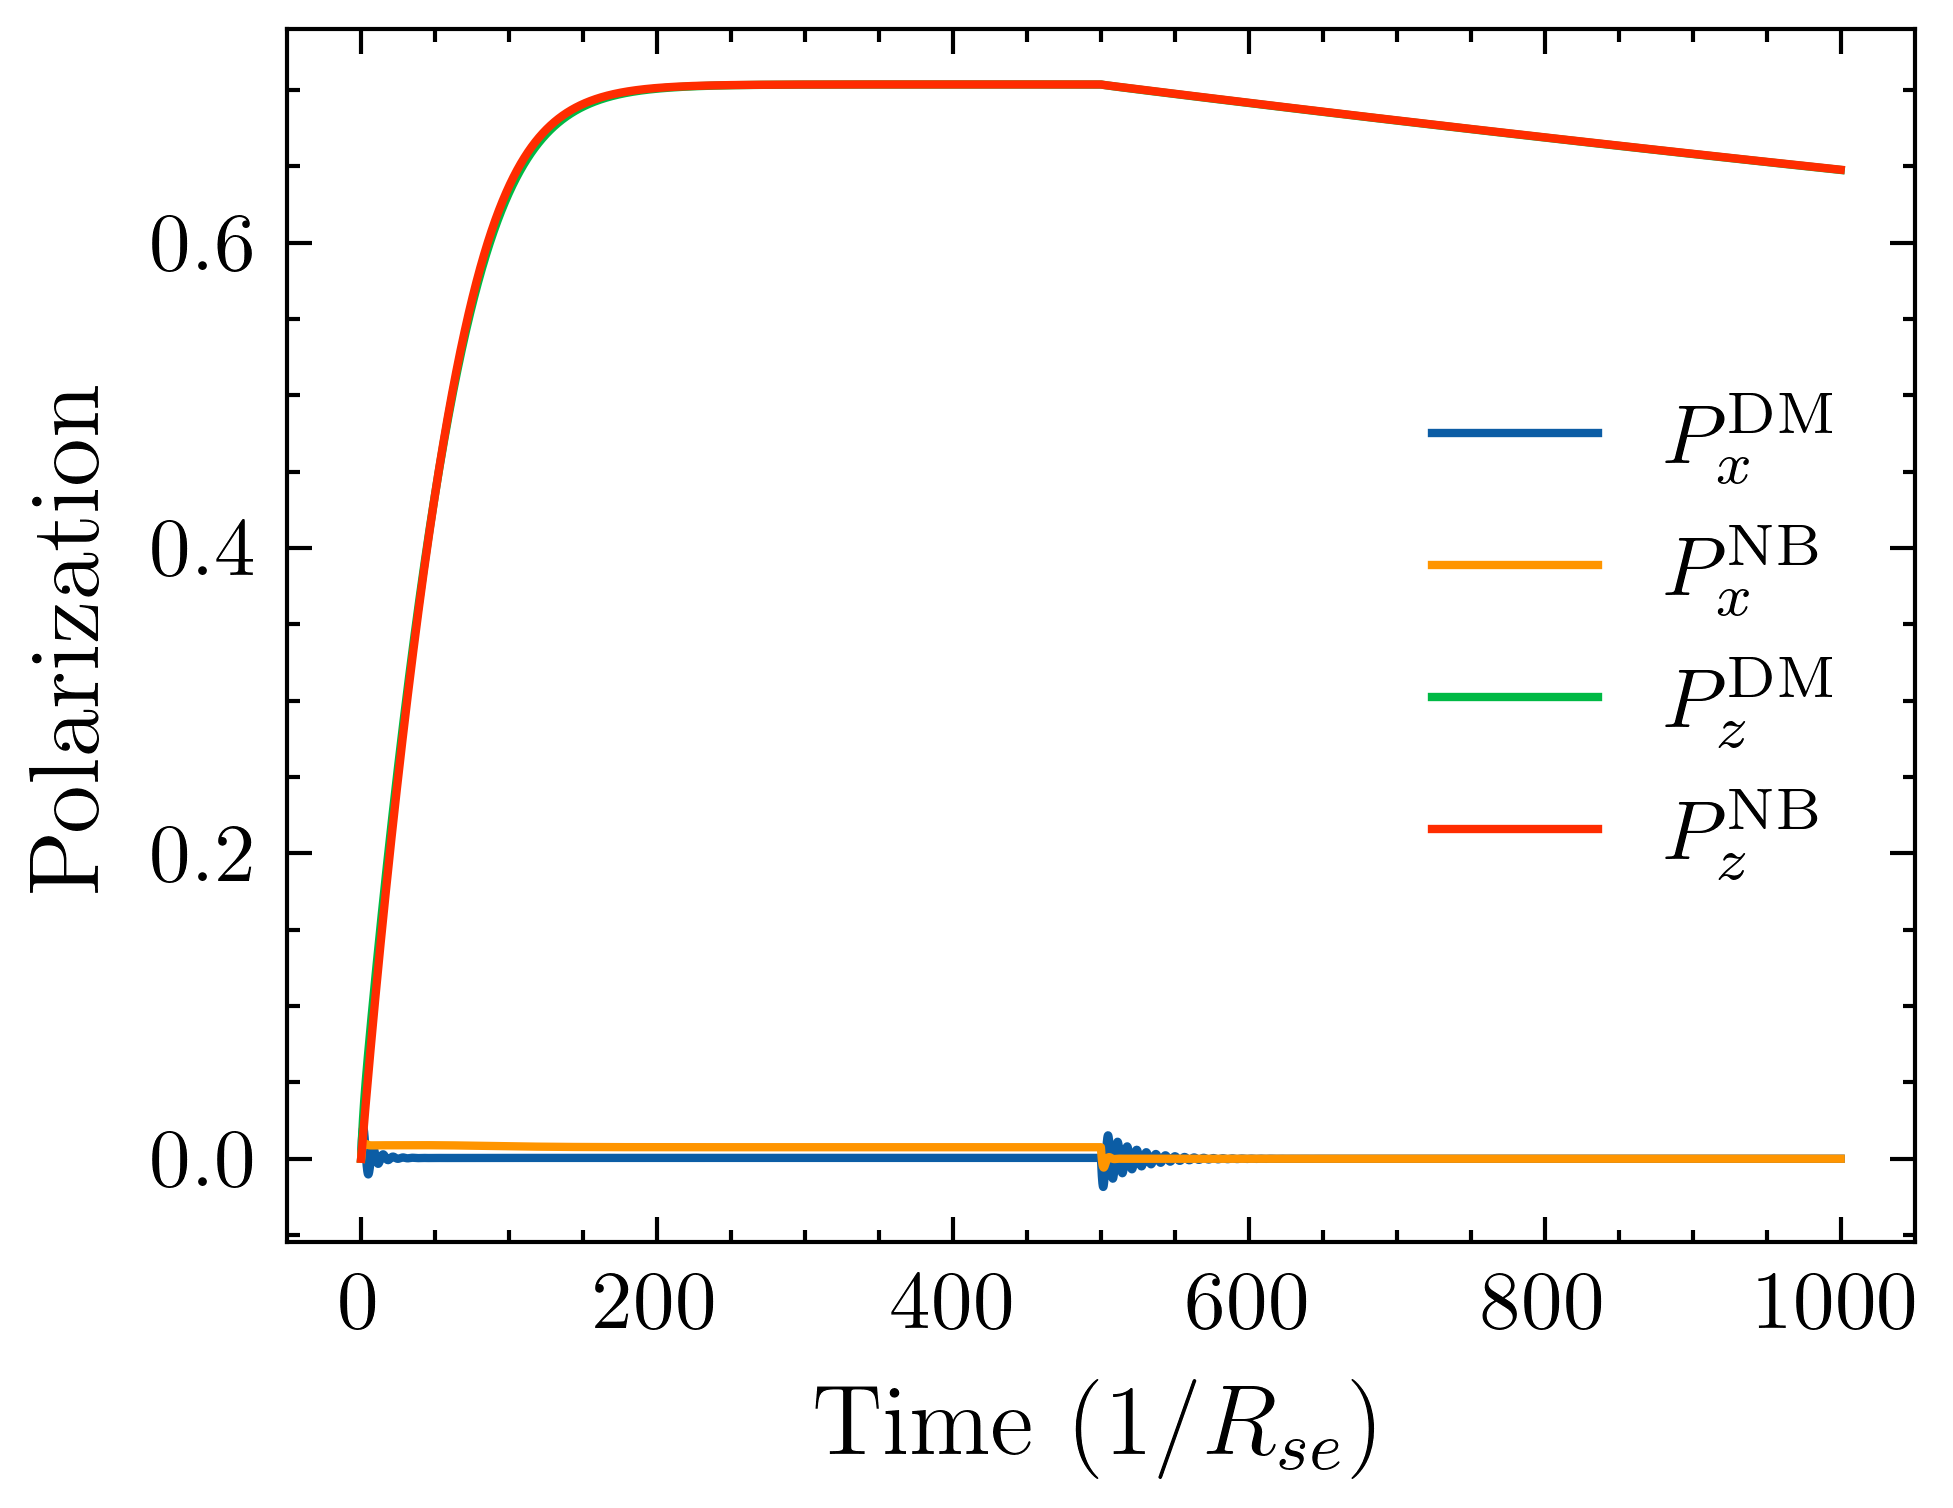
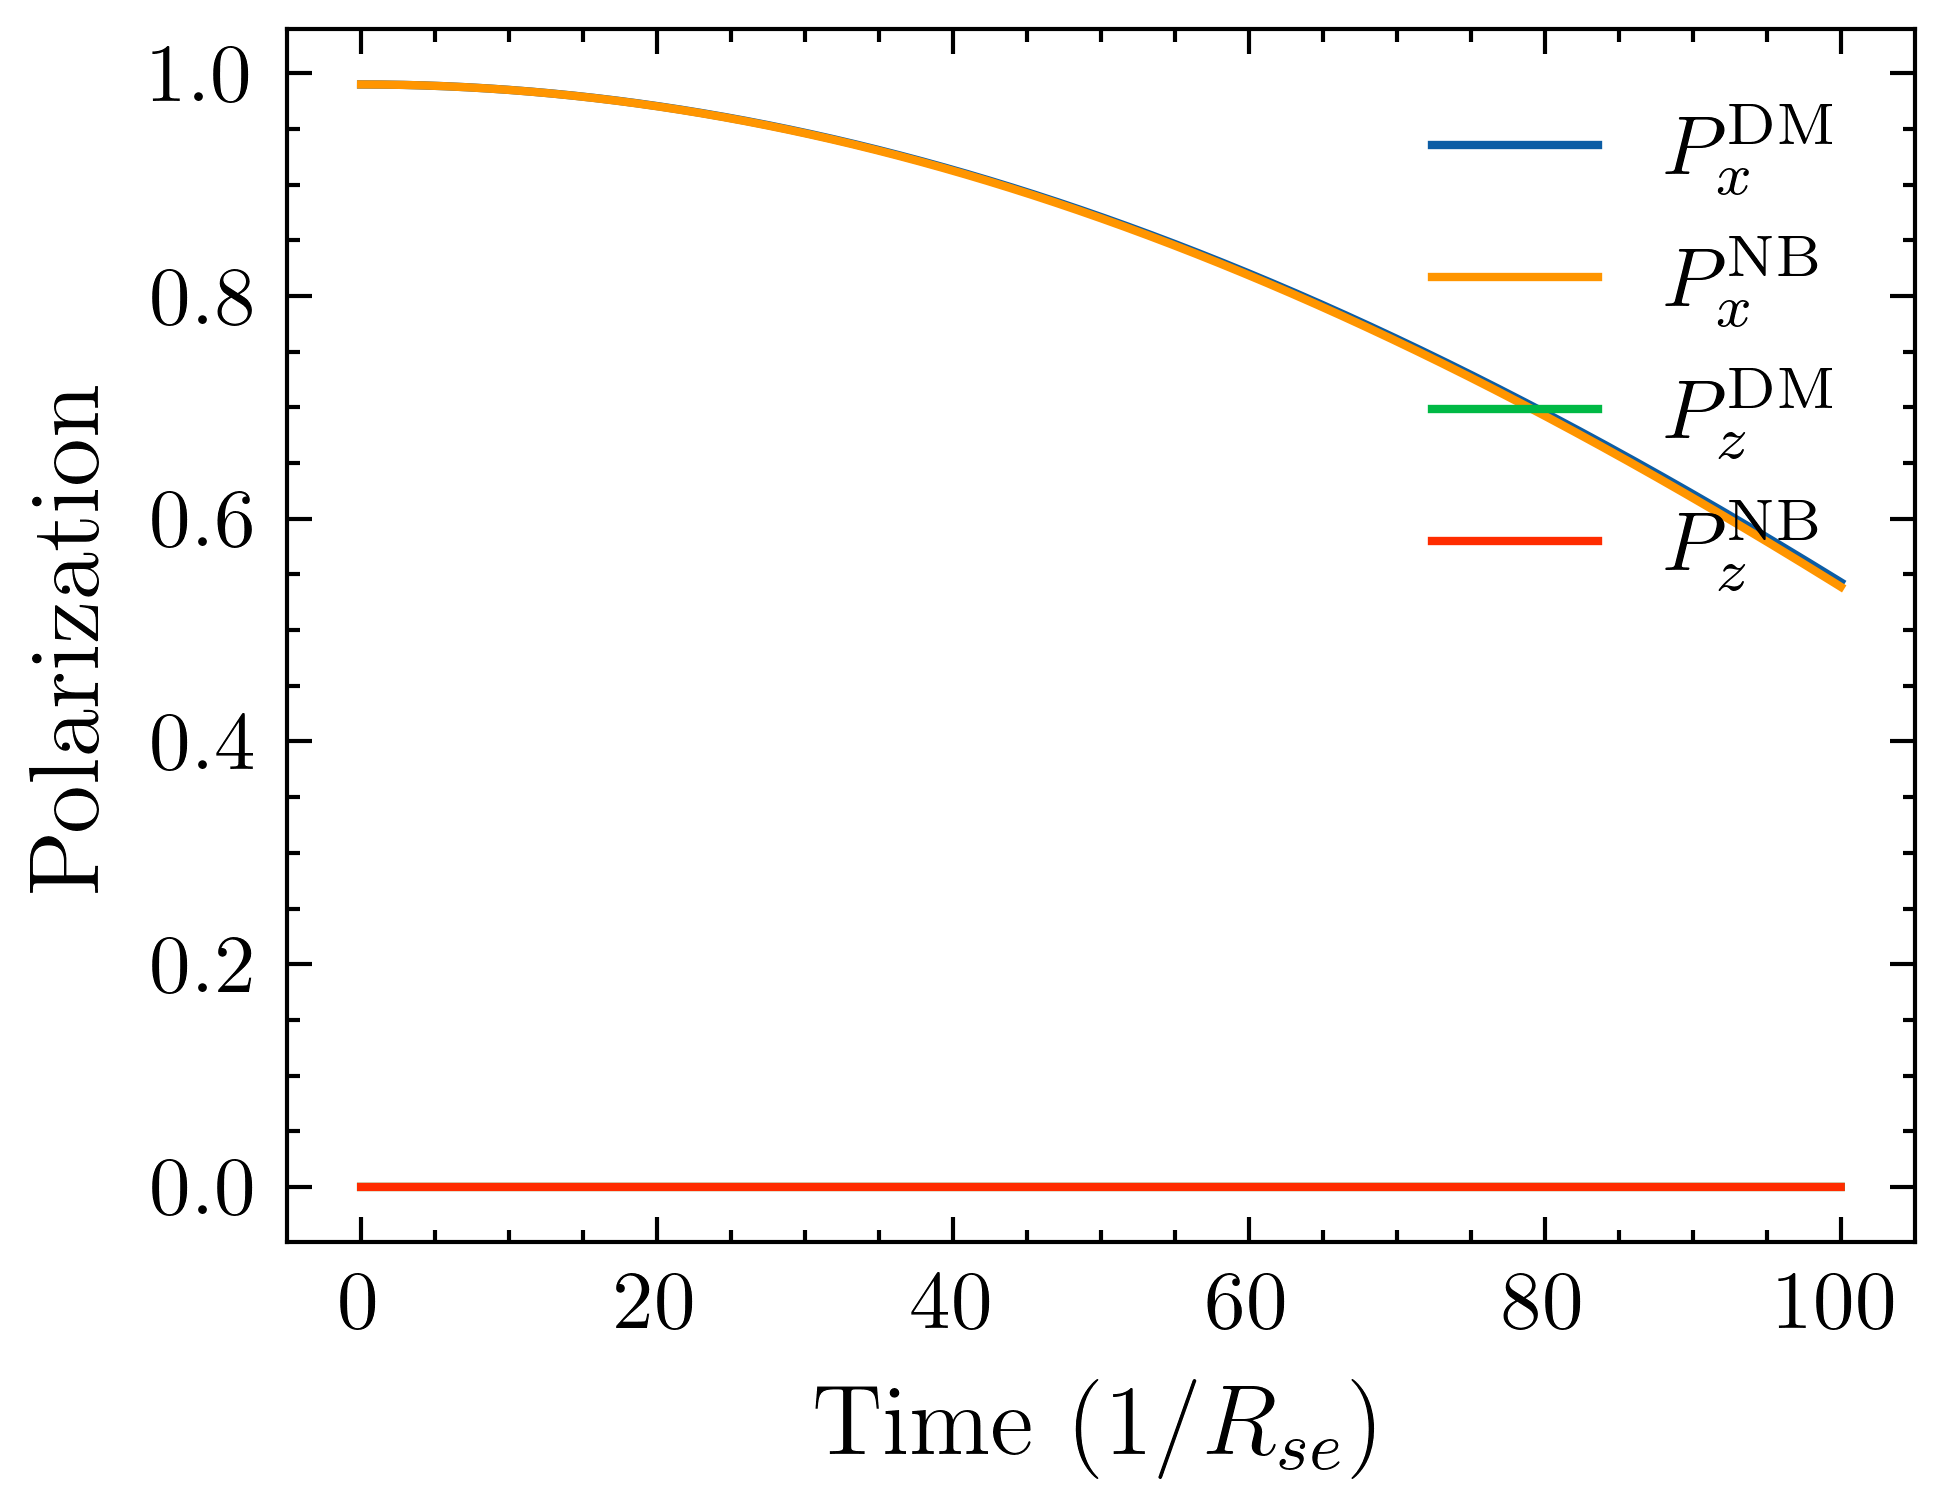
8

diff --git a/Master_equation.py b/Master_equation.py
@@ -31,10 +31,10 @@ Sz = U.T.conjugate() @ Sz @ U
 # --------------------------------Characterize interactions envolved-----------------------------------#
 Rse = 1
 omega_0 = 0.01
-Rop = 0.1
-Rsd = 0.0005
-sx=1/np.sqrt(2)
-sz=1/np.sqrt(2)
+Rop = 0.0
+Rsd = 0
+sx=np.sqrt(3)/(2)
+sz=np.sqrt(1)/(2)
 # --------------------------------Define the initial state-----------------------------------#
 theta = np.pi / 2
 phi = 0
@@ -49,7 +49,7 @@ q = np.hstack((qa, qb))
 Rho_ini = np.zeros(2 * (a + b + 1))
 
 # # -----------------spin temperature state-----------------#
-P = 0.000001
+P = 0.99
 beta = np.log((1 + P) / (1 - P))
 for i in np.arange(0, 2 * (a + b + 1), 1):
     Rho_ini = Rho_ini + np.exp(beta * q[i]) * v[:, [i]] * v[:, [i]].T.conjugate()
@@ -61,8 +61,8 @@ Rho_ini = Rho_ini / np.trace(Rho_ini)
 
 # --------------------------------------Evolution under hyperfine effect, etc.--------------------------------#
 Rhot = Rho_ini
-dt = 0.01
-T = 20000
+dt = 0.005
+T = 100
 t = np.arange(0, T, dt)
 hyperfine = block_diag(np.ones((2 * a + 1, 2 * a + 1)), np.ones((2 * b + 1, 2 * b + 1)))  # 一个原子
 MSx = np.zeros(round(T / dt))
@@ -74,8 +74,8 @@ q, v = np.linalg.eig(H)
 evolving_B = v @ np.diag(np.exp(-1j * q * dt)) @ np.linalg.inv(v)
 for n in np.arange(0, round(T / dt), 1):
     # -----------------Evolution-----------------#
-    if n==round(T / dt)/10:
-        Rop = 0.0
+    # if n==round(T / dt)/10:
+    #     Rop = 0.0
     x1 = Rhot @ Sx
     x2 = Rhot @ Sy
     x3 = Rhot @ Sz
@@ -98,26 +98,33 @@ for n in np.arange(0, round(T / dt), 1):
     # V[n] = Vx
 
 # ---------------------------Bloch Equation-----------------------------------
-Rop = 0.1
+Rop = 0.
 transverse = np.zeros(round(T / dt))
 longitude = np.zeros(round(T / dt))
 Px = P * np.sin(theta)
 Pz = P * np.cos(theta)
 Py = 0
 for n in np.arange(0, round(T / dt), 1):
-    if n==round(T / dt)/10:
-        Rop = 0.0
+    # if n==round(T / dt)/10:
+    #     Rop = 0.0
     transverse[n] = Px
     longitude[n] = Pz
     qnm = 2 * (3 + P ** 2) / (1 + P ** 2)
     Qnm = 2 * (3 + P ** 4) / ((1 + P ** 2) ** 2)
     Gamma = 8 * (-4 + qnm) * (4 + qnm) * omega_0 ** 2 / qnm ** 3 * qnm / Qnm
-    # Gamma = 0
-    # T1 = (1 - qnm / Qnm) * (1 - Pz ** 2 / P ** 2) * Gamma
-    T1 = ((qnm - Qnm) / qnm) * (1 - Pz ** 2 / P ** 2) * Gamma
-    # T2 = (1 - (1 - qnm / Qnm) * (1 - Pz ** 2 / P ** 2)) * Gamma
-    T2 = (1 - ((qnm - Qnm) / qnm) * Pz ** 2 / P ** 2) * Gamma
 
+    # qnm = 2*(19+26*P**2+3*P**4)/(3+10*P**2+3*P**4)
+    # Qnm = 2 * (57 +44* P ** 2+134*P**4+12*P**6+9*P**8) / ((3 +10* P ** 2+3*P**4 )**2)
+    # Gamma = 18 * (-6 + qnm) * (6 + qnm) * omega_0 ** 2 / qnm ** 3 * qnm / Qnm
+
+    # qnm = 2 * (11 +35* P ** 2+17*P**4+P**6) / (1 +7* P ** 2+7*P**4+P**6) 
+    # Qnm = 2 * (11 +28* P ** 2+99*P**4+64*P**6+49*P**8+4*P**10+P**12) / ((1 +7* P ** 2+7*P**4+P**6)**2 )
+    # Gamma = 32 * (-8 + qnm) * (8 + qnm) * omega_0 ** 2 / qnm ** 3 * qnm / Qnm
+
+ 
+   
+    T2 = (1 - ((qnm - Qnm) / qnm) * Pz ** 2 / P ** 2) * Gamma
+    T1 = T2-Gamma/qnm*Qnm
     # Pz = Pz + (-1 / Qnm * (Rsd + Rop) * Pz + Rop * (
     #         1 / Qnm * Pz ** 2 / P ** 2 + 1 / qnm * (1 - Pz ** 2 / P ** 2)) - Pz * T1) * dt
     # Px = Px + (-1 / Qnm * (Rsd + Rop) * Px + Rop * (
@@ -152,4 +159,5 @@ with plt.style.context(['science']):
 
     plt.xlabel('Time $(1/R_{se})$', fontsize=12)
     plt.ylabel('Polarization', fontsize=12)
-    plt.savefig('Evolution3.png', dpi=600)
+    plt.savefig('Evolution2.png', dpi=600)
+plt.show()

diff --git a/Noise spectrum.py b/Noise spectrum.py
@@ -7,34 +7,39 @@ import numpy as np
 import matplotlib.pyplot as plt
 import scienceplots
 
-omega = np.arange(-120, 120, 0.1)
+omega = np.arange(-1000,1000 , 0.1)
 q=5.2
 Omega = 100/q*4
-gammap = 10/q
-gamman = 10000*(2/3+4/3/16-4*0.25/4/1.25)
+gammap = 2*10/q
+gamman = 1000*(2/3+4/3/16-4*0.25/4/1.25)
 
 
-Fz = 0.9192388155425111
-Fx2 = 1.862499999999999
-Lorentzianpp = gammap / (gammap + (omega - Omega) ** 2)
-Lorentzianpn = gammap / (gammap + (omega + Omega) ** 2)
-Lorentziannp = gamman / (gamman + (omega - Omega) ** 2)
-Lorentziannn = gamman / (gamman + (omega + Omega) ** 2)
+Fz = 1.3
+Fx2 = 1.3
+Fxn2=10
+Lorentzianpp = gammap / (gammap**2 + (omega - Omega) ** 2)
+Lorentzianpn = gammap / (gammap**2 + (omega + Omega) ** 2)
+Lorentziannp = gamman / (gamman**2 + (omega - Omega) ** 2)
+Lorentziannn = gamman / (gamman**2 + (omega + Omega) ** 2)
 
-plt.style.use(['science'])
-with plt.style.context(['science']):
+plt.style.use(['science','nature'])
+with plt.style.context(['science','nature']):
     fig1 = plt.figure()
-    p1, = plt.plot(omega, Fx2*(Lorentzianpp + Lorentzianpn))
-    p2, = plt.plot(omega, -Fz/2*(Lorentzianpp - Lorentzianpn))
-    p3, = plt.plot(omega, Fx2*(Lorentzianpp + Lorentzianpn)-Fz/2*(Lorentzianpp - Lorentzianpn))
+    # p3, = plt.plot(omega, Fx2*(Lorentzianpp + Lorentzianpn)-Fz/2*(Lorentzianpp - Lorentzianpn))
+    # p1, = plt.plot(omega, Fx2*(Lorentzianpp + Lorentzianpn))
+    # p2, = plt.plot(omega, -Fz/2*(Lorentzianpp - Lorentzianpn))
+    p1, = plt.plot(omega, 9/169*Fxn2*(Lorentziannp + Lorentziannn)+100/169*Fx2*(Lorentzianpp + Lorentzianpn),color='maroon')
+    # p2, = plt.plot(omega, -Fz/2*(Lorentzianpp - Lorentzianpn))
+    plt.xticks(fontsize=10)
+    plt.yticks(fontsize=10)
+    plt.ticklabel_format(axis="y", style="sci", scilimits=(0,0))
 
-
-    plt.legend([p1, p2, p3], ["Symmetric part", "Antisymmetric part", "Total"], loc='upper left',
-               prop={'size': 10})
-    plt.xlabel('Frequency(Hz)', fontsize=12)
-    plt.ylabel(' PSD($n^2 l^2 \chi_a^2$)', fontsize=12)
-    plt.ylim([-0.5,4])
-
+    # plt.legend([p1, p2, p3], ["Symmetric part", "Antisymmetric part", "Total"], loc='upper center',
+    #            prop={'size': 10})
+    # plt.xlabel('Frequency (Hz)', fontsize=12)
+    # plt.ylabel(' PSD ($ N \chi_+^2$/Hz)', fontsize=12)
+    plt.xlabel('Frequency (Hz)', fontsize=12)
+    plt.ylabel(' PSD ($N \chi_a^2/$Hz)', fontsize=12)
 
     plt.savefig('Noise spectrum.png', dpi=600)
 

diff --git a/picture of q Q.py b/picture of q Q.py
@@ -16,28 +16,31 @@ qqq = 2 * (11 + 35 * P ** 2 + 17 * P ** 4 + P ** 6) / (1 + 7 * P ** 2 + 7 * P **
 QQQ = 2 * (11 + 28 * P ** 2 + 99 * P ** 4 + 64 * P ** 6 + 49 * P ** 8 + 4 * P ** 10 +
            P ** 12) / (1 + 7 * P ** 2 + 7 * P ** 4 + P ** 6) ** 2
 
-plt.style.use(['science' ])
-with plt.style.context(['science']):
+plt.style.use(['science','nature' ])
+with plt.style.context(['science','nature']):
     plt.figure()
-    p1, = plt.plot(P, Q, color='dodgerblue', linestyle='solid')
-    p2, = plt.plot(P, QQ,color='black', linestyle='solid')
-    p3, = plt.plot(P, QQQ,color='olive', linestyle='solid')
-    p4, = plt.plot(P, q,color='dodgerblue', linestyle='dashdot')
-    p5, = plt.plot(P, qq,color='black', linestyle='dashdot')
-    p6, = plt.plot(P, qqq,color='olive', linestyle='dashdot')
-    plt.legend([p1,p4, p2,p5, p3, p6], ["$Q_{3/2}$", "$q_{3/2}$", "$Q_{5/2}$", "$q_{5/2}$", "$Q_{7/2}$", "$q_{7/2}$"],
+    p1, = plt.plot(P, Q,linestyle='solid')
+    p2, = plt.plot(P, QQ,linestyle='dashed' )
+    p3, = plt.plot(P,QQQ,linestyle='dashdot')
+    # p4, = plt.plot(P, q,color='purple',linestyle='solid')
+    # p5, = plt.plot(P, qq,color='brown',linestyle='dashed')
+    # p6, = plt.plot(P, qqq,color='olive',linestyle='dashdot')
+    plt.legend([p1,p2,p3], ["$I={3/2}$",  "$I={5/2}$", "$I={7/2}$"],
                loc='upper right', prop={'size': 10})
+
     plt.xticks(fontsize=10)
     plt.yticks(fontsize=10)
-    plt.xlabel('P', fontsize=12)
-    plt.ylabel('Slowing down factor', fontsize=12)
+    plt.xlabel('$P$', fontsize=12)
+    plt.ylabel('$Q(P)$', fontsize=12)
     # my_y_ticks = np.arange(0, 1, 0.2)
     # plt.yticks(my_y_ticks)
-    plt.savefig('3.png', dpi=600)
+    plt.ylim([0,23])
+    plt.savefig('qq.png', dpi=600)
+
 
 # plt.figure()
 # plt.plot(t, C_1x2x)
 # plt.figure()
 # plt.plot(t, (np.array(C_1x2x)+np.array(C_1x1x)))
 
-plt.show()
+

diff --git a/test.py b/test.py
@@ -25,8 +25,8 @@ GammaNqqq = 2/3+4/3/64-4*L
 
 
 
-plt.style.use(['science' ])
-with plt.style.context(['science']):
+plt.style.use(['science','nature' ])
+with plt.style.context(['science','nature']):
     plt.figure()
     # p1, = plt.plot(P, Gammaq)
     # p2, = plt.plot(P, Gammaqq)
@@ -45,24 +45,27 @@ with plt.style.context(['science']):
 
     fig = plt.figure()
     ax1 = fig.add_subplot(111)
-    ax1.plot(P, Gammaq)
-    ax1.plot(P, Gammaqq)
-    ax1.plot(P, Gammaqqq)
-    ax1.set_ylabel('$\Gamma^+\;(\omega_e^2/R_{se})$')
+    ax1.plot(P, GammaNq,linestyle='solid')
+    ax1.plot(P, GammaNqq,linestyle='dashed' )
+    ax1.plot(P, GammaNqqq,linestyle='dashdot')
+    # ax1.plot(P, Gammaq,linestyle='solid')
+    # ax1.plot(P, Gammaqq,linestyle='dashed')
+    # ax1.plot(P, Gammaqqq,linestyle='dashdot')
+    # ax1.set_ylabel('$\Gamma^+\;(\omega_e^2/R_{\\rm{se}})$',fontsize='12')
+    ax1.set_ylabel('$\Gamma^-\;(R_{\\rm{se}})$',fontsize='12')
+    ax1.set_xlabel('$P$',fontsize='12')
     plt.legend( ["$I={3/2}$", "$I={5/2}$", "$I={7/2}$"],
                loc='upper right', prop={'size': 10})
-    ax2 = ax1.twinx()  # this is the important function
-    ax2.plot(P, GammaNq,linestyle='dashed')
-    ax2.plot(P, GammaNqq,linestyle='dashed')
-    ax2.plot(P, GammaNqqq,linestyle='dashed')
-    ax2.set_ylabel('$\Gamma^-\;(R_{se})$')
-    # my_y_ticks = np.arange(0, 1, 0.2)
-    # plt.yticks(my_y_ticks)
-    plt.savefig('linewidth.png', dpi=600)
+
+    plt.xticks(fontsize=10)
+    plt.yticks(fontsize=10)
+
+    plt.ylim([0,0.8])
+    plt.savefig('linewidth-.png', dpi=600)
 
 # plt.figure()
 # plt.plot(t, C_1x2x)
 # plt.figure()
 # plt.plot(t, (np.array(C_1x2x)+np.array(C_1x1x)))
 
-plt.show()
+
